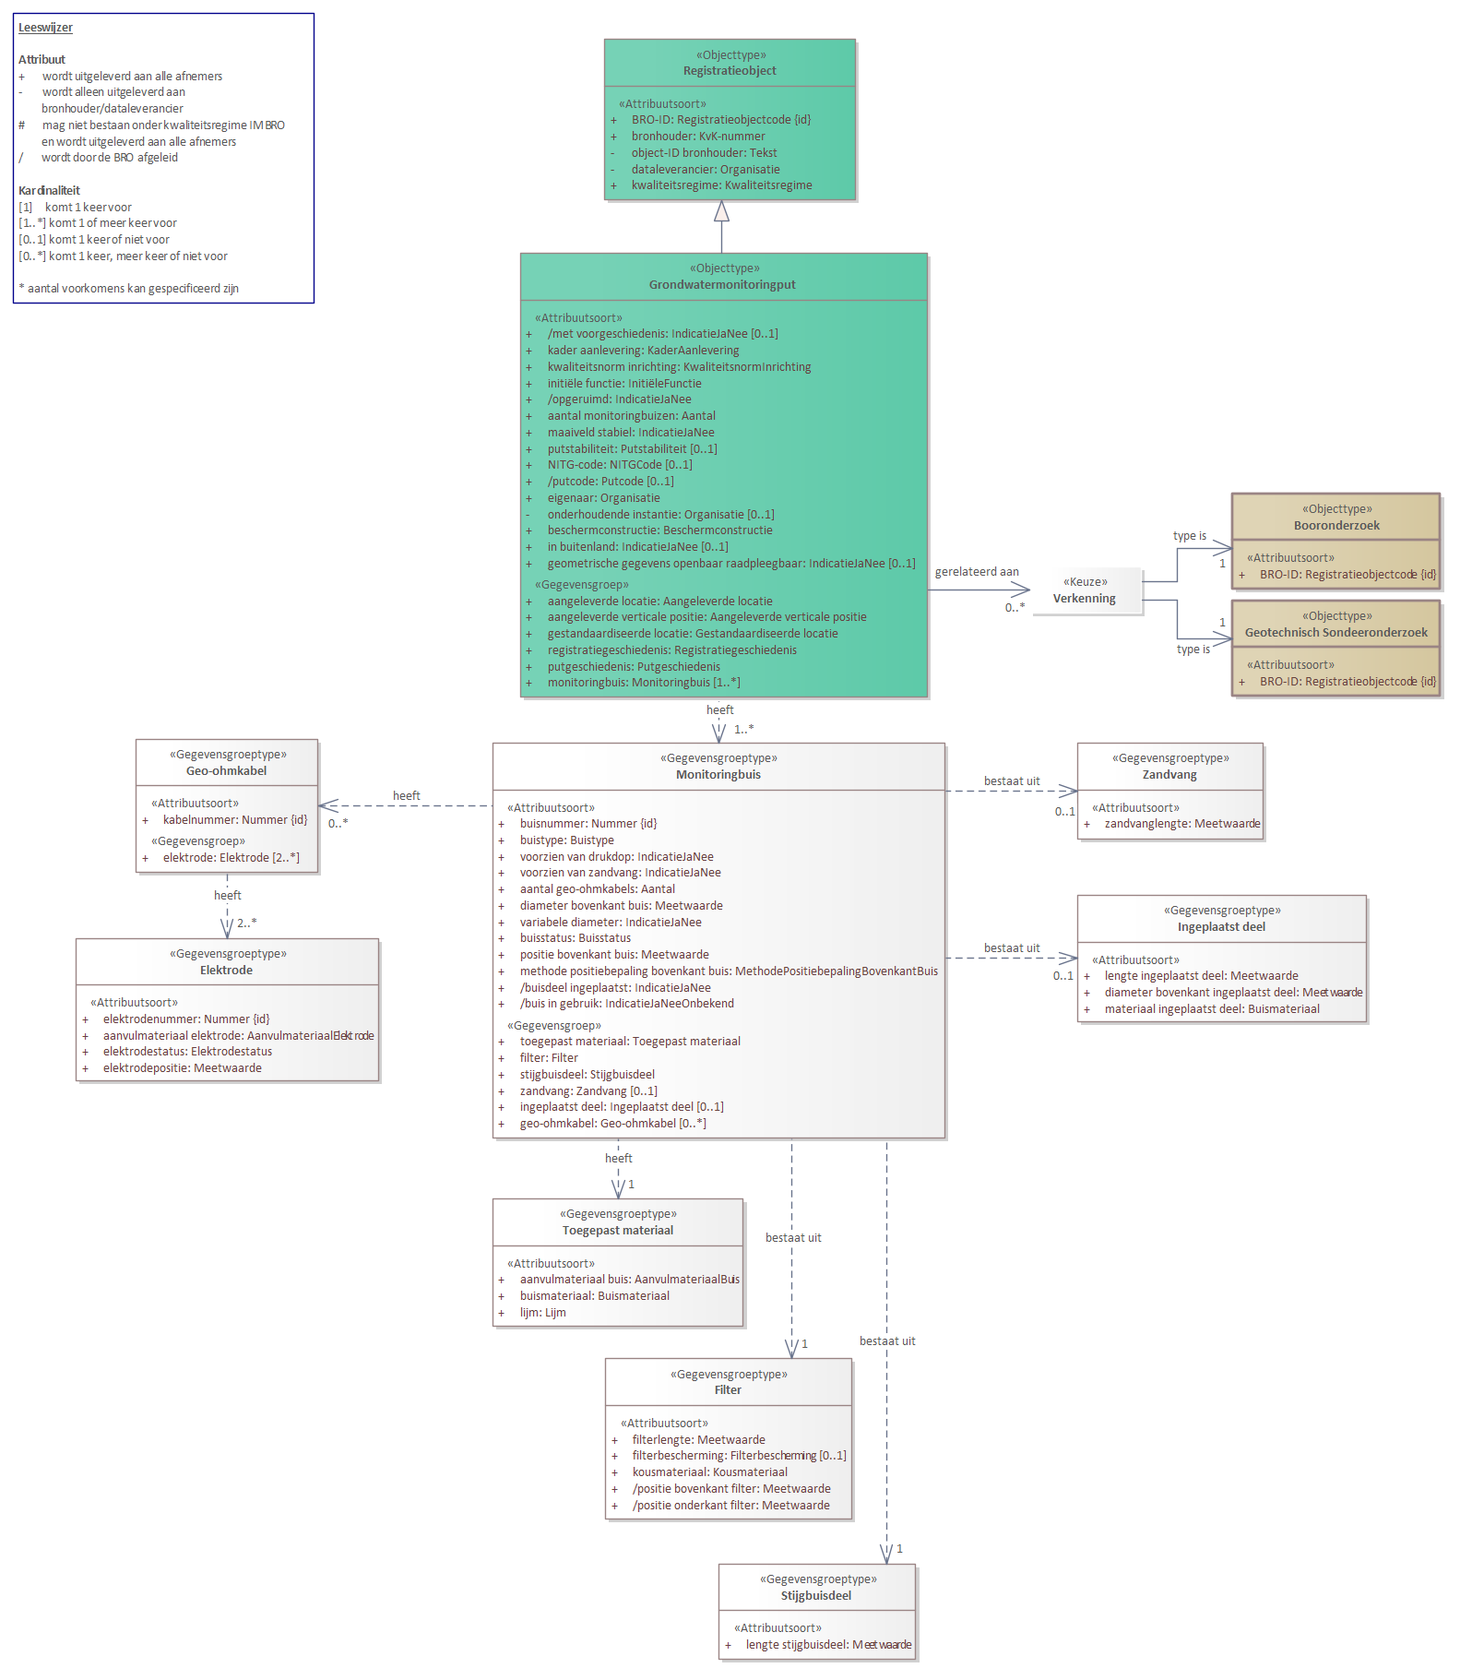
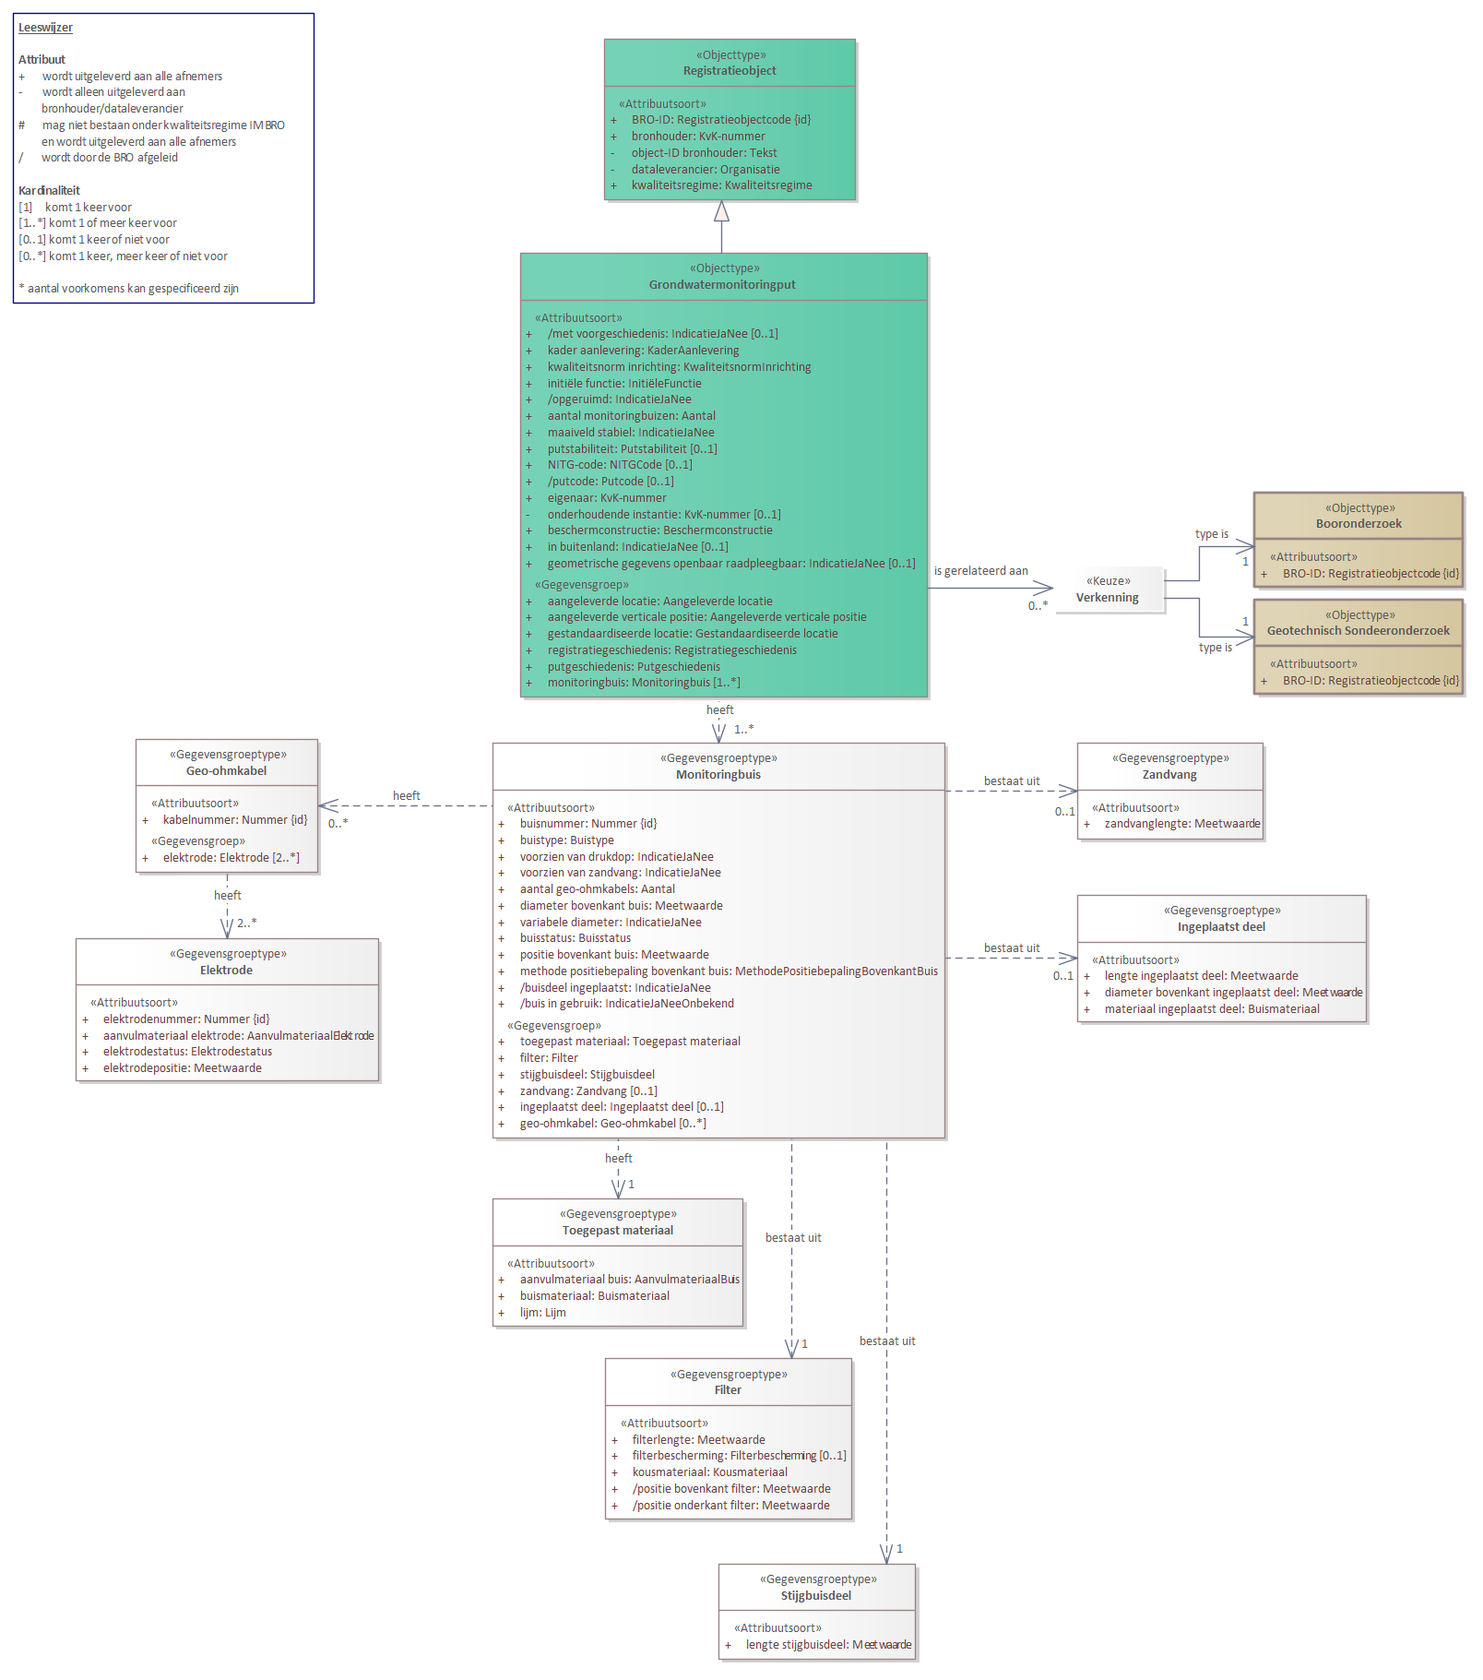
Conceptualmodel-GMWconceptueelMIM-1.09-1-20231201-20240222-131540

diff --git a/data/GMW-cat.msword.html b/data/GMW-cat.msword.html
@@ -15,7 +15,7 @@
    <body>
       <p>Conceptual model/GMW conceptueel MIM/20231201</p>
       <p>Imvertor: Nightly-build.13</p>
-      <p>Model release: Conceptualmodel-GMWconceptueelMIM-1.09-1-20231201-20240222-124534</p>
+      <p>Model release: Conceptualmodel-GMWconceptueelMIM-1.09-1-20231201-20240222-131540</p>
       <hr>
       <section>
          <h1>Artikel 1 Definitie van registratieobject, entiteiten en attributen</h1>
@@ -63,7 +63,7 @@
          <section>
             <h2>Het domeinmodel</h2>
             <section>
-               <div class="imageinfo overview"><img src="Images/EAID_E820AF53_7FB7_42e8_95C4_297D746526CE.png" usemap="#imagemap-EAID_E820AF53_7FB7_42e8_95C4_297D746526CE" alt="Diagram &#xA;                        &#xA;                     "><map name="imagemap-EAID_E820AF53_7FB7_42e8_95C4_297D746526CE"><area shape="rect" alt="Registratieobject" coords="655,42,928,217" href="#global_class_Model_Registratieobject"><area shape="rect" alt="Geotechnisch Sondeeronderzoek" coords="1336,651,1562,755" href="#global_class_Model_GeotechnischSondeeronderzoek"><area shape="rect" alt="Verkenning" coords="1116,614,1238,665" href="#global_class_Model_Verkenning"><area shape="rect" alt="Booronderzoek" coords="1336,535,1562,639" href="#global_class_Model_Booronderzoek"><area shape="rect" alt="Monitoringbuis" coords="534,805,1025,1234" href="#global_class_Model_Monitoringbuis"><area shape="rect" alt="Toegepast materiaal" coords="534,1299,806,1438" href="#global_class_Model_Toegepastmateriaal"><area shape="rect" alt="Ingeplaatst deel" coords="1168,970,1482,1108" href="#global_class_Model_Ingeplaatstdeel"><area shape="rect" alt="Zandvang" coords="1168,805,1370,910" href="#global_class_Model_Zandvang"><area shape="rect" alt="Grondwatermonitoringput" coords="564,274,1006,756" href="#global_class_Model_Grondwatermonitoringput"><area shape="rect" alt="Geo-ohmkabel" coords="147,801,345,946" href="#global_class_Model_Geoohmkabel"><area shape="rect" alt="Filter" coords="656,1472,924,1647" href="#global_class_Model_Filter"><area shape="rect" alt="Elektrode" coords="82,1017,411,1172" href="#global_class_Model_Elektrode"><area shape="rect" alt="Stijgbuisdeel" coords="779,1695,993,1799" href="#global_class_Model_Stijgbuisdeel"></map><p><b>Grondwatermonitorput (GMW)</b></p>
+               <div class="imageinfo overview"><img src="Images/EAID_E820AF53_7FB7_42e8_95C4_297D746526CE.png" usemap="#imagemap-EAID_E820AF53_7FB7_42e8_95C4_297D746526CE" alt="Diagram &#xA;                        &#xA;                     "><map name="imagemap-EAID_E820AF53_7FB7_42e8_95C4_297D746526CE"><area shape="rect" alt="Registratieobject" coords="655,42,928,217" href="#global_class_Model_Registratieobject"><area shape="rect" alt="Geotechnisch Sondeeronderzoek" coords="1360,650,1587,753" href="#global_class_Model_GeotechnischSondeeronderzoek"><area shape="rect" alt="Verkenning" coords="1141,613,1262,663" href="#global_class_Model_Verkenning"><area shape="rect" alt="Booronderzoek" coords="1360,534,1587,637" href="#global_class_Model_Booronderzoek"><area shape="rect" alt="Monitoringbuis" coords="534,805,1025,1234" href="#global_class_Model_Monitoringbuis"><area shape="rect" alt="Toegepast materiaal" coords="534,1299,806,1438" href="#global_class_Model_Toegepastmateriaal"><area shape="rect" alt="Ingeplaatst deel" coords="1168,970,1482,1108" href="#global_class_Model_Ingeplaatstdeel"><area shape="rect" alt="Zandvang" coords="1168,805,1370,910" href="#global_class_Model_Zandvang"><area shape="rect" alt="Grondwatermonitoringput" coords="564,274,1006,756" href="#global_class_Model_Grondwatermonitoringput"><area shape="rect" alt="Geo-ohmkabel" coords="147,801,345,946" href="#global_class_Model_Geoohmkabel"><area shape="rect" alt="Filter" coords="656,1472,924,1647" href="#global_class_Model_Filter"><area shape="rect" alt="Elektrode" coords="82,1017,411,1172" href="#global_class_Model_Elektrode"><area shape="rect" alt="Stijgbuisdeel" coords="779,1695,993,1799" href="#global_class_Model_Stijgbuisdeel"></map><p><b>Grondwatermonitorput (GMW)</b></p>
                </div>
             </section>
          </section>
@@ -1053,8 +1053,7 @@
                               <td>
                                  
                                  <p>De identificatie die de organisatie die eigenaar is van de grondwatermonitoringput,
-                                    als onderneming in het Handelsregister heeft, of het equivalent daarvan in een handelsregister
-                                    van een andere lidstaat van de Europese Unie dan Nederland.</p>
+                                    als onderneming in het Handelsregister heeft.</p>
                                  </td>
                            </tr>
                            <tr>
@@ -1071,7 +1070,17 @@
                            </tr>
                            <tr>
                               <th>&nbsp;&nbsp;Naam</th>
-                              <td>Organisatie</td>
+                              <td>
+                                 KvK-nummer
+                                 </td>
+                           </tr>
+                           <tr>
+                              <th>&nbsp;&nbsp;Type</th>
+                              <td>Code</td>
+                           </tr>
+                           <tr>
+                              <th>&nbsp;&nbsp;Opbouw</th>
+                              <td></td>
                            </tr>
                            <tr>
                               <th>Regels</th>
@@ -1128,8 +1137,7 @@
                               <td>
                                  
                                  <p>De identificatie die de organisatie die het onderhoud aan de grondwatermonitoringput
-                                    uitvoert, als onderneming in het Handelsregister heeft, of het equivalent daarvan
-                                    in een handelsregister van een andere lidstaat van de Europese Unie dan Nederland.</p>
+                                    uitvoert, als onderneming in het Handelsregister heeft.</p>
                                  </td>
                            </tr>
                            <tr>
@@ -1146,7 +1154,17 @@
                            </tr>
                            <tr>
                               <th>&nbsp;&nbsp;Naam</th>
-                              <td>Organisatie</td>
+                              <td>
+                                 KvK-nummer
+                                 </td>
+                           </tr>
+                           <tr>
+                              <th>&nbsp;&nbsp;Type</th>
+                              <td>Code</td>
+                           </tr>
+                           <tr>
+                              <th>&nbsp;&nbsp;Opbouw</th>
+                              <td></td>
                            </tr>
                            <tr>
                               <th>Regels</th>
@@ -1618,7 +1636,7 @@
                            </tr>
                            <tr>
                               <th>Relatiesoort naam</th>
-                              <td>gerelateerd aan</td>
+                              <td>is gerelateerd aan</td>
                            </tr>
                            <tr>
                               <th>Relatierol naam</th>
@@ -5676,7 +5694,7 @@
                            <th>Definitie</th>
                            <td>
                               
-                              <p>Het kenmerk van het booronderzoek dat is gerelateerd aan de inrichting van de grondwatermonitoringput.</p>
+                              <p>Het booronderzoek dat is gerelateerd aan de inrichting van de grondwatermonitoringput.</p>
                               </td>
                         </tr>
                      </tbody>
@@ -5697,7 +5715,7 @@
                               <td>
                                  
                                  <p>De identificatie van een booronderzoek van het registratiedomein bodem- en grondonderzoek
-                                    van de basisregistratie ondergrond.</p>
+                                    van de registratie ondergrond.</p>
                                  </td>
                            </tr>
                            <tr>
@@ -5728,7 +5746,7 @@
                               <th>Regels</th>
                               <td>
                                  
-                                 <p>Het <em>BRO-ID</em> moet gerelateerd zijn aan een bestaand booronderzoek in de basisregistratie ondergrond.</p>
+                                 <p>Het <em>BRO-ID</em> moet gerelateerd zijn aan een bestaand booronderzoek in de registratie ondergrond.</p>
                                  </td>
                            </tr>
                            <tr>
@@ -5758,8 +5776,7 @@
                            <th>Definitie</th>
                            <td>
                               
-                              <p>Het kenmerk van het geotechnisch sondeeronderzoek dat is gerelateerd aan de inrichting
-                                 van de grondwatermonitoringput.</p>
+                              <p>Het geotechnisch sondeeronderzoek dat is gerelateerd aan de inrichting van de grondwatermonitoringput.</p>
                               </td>
                         </tr>
                      </tbody>
@@ -5779,7 +5796,7 @@
                               <th>Definitie</th>
                               <td>
                                  
-                                 <p>De identificatie van een geotechnisch sondeeronderzoek in de basisregistratie ondergrond.</p>
+                                 <p>De identificatie van een geotechnisch sondeeronderzoek in de registratie ondergrond.</p>
                                  </td>
                            </tr>
                            <tr>
@@ -5810,7 +5827,7 @@
                               <th>Regels</th>
                               <td>
                                  
-                                 <p>Het <em>BRO-ID</em> moet gerelateerd zijn aan een bestaand geotechnisch sondeeronderzoek in de basisregistratie
+                                 <p>Het <em>BRO-ID</em> moet gerelateerd zijn aan een bestaand geotechnisch sondeeronderzoek in de registratie
                                     ondergrond.</p>
                                  </td>
                            </tr>

diff --git a/data/GMW-cat.respec.html b/data/GMW-cat.respec.html
@@ -41,7 +41,7 @@
       </section>
    <section>
       <h2>Het domeinmodel   </h2>
-      <div class="imageinfo overview"><img src="data/Images/EAID_E820AF53_7FB7_42e8_95C4_297D746526CE.png" usemap="#imagemap-EAID_E820AF53_7FB7_42e8_95C4_297D746526CE" alt="Diagram &#xA;                        &#xA;                     "><map name="imagemap-EAID_E820AF53_7FB7_42e8_95C4_297D746526CE"><area shape="rect" alt="Registratieobject" coords="655,42,928,217" href="#global_class_Model_Registratieobject"><area shape="rect" alt="Geotechnisch Sondeeronderzoek" coords="1336,651,1562,755" href="#global_class_Model_GeotechnischSondeeronderzoek"><area shape="rect" alt="Verkenning" coords="1116,614,1238,665" href="#global_class_Model_Verkenning"><area shape="rect" alt="Booronderzoek" coords="1336,535,1562,639" href="#global_class_Model_Booronderzoek"><area shape="rect" alt="Monitoringbuis" coords="534,805,1025,1234" href="#global_class_Model_Monitoringbuis"><area shape="rect" alt="Toegepast materiaal" coords="534,1299,806,1438" href="#global_class_Model_Toegepastmateriaal"><area shape="rect" alt="Ingeplaatst deel" coords="1168,970,1482,1108" href="#global_class_Model_Ingeplaatstdeel"><area shape="rect" alt="Zandvang" coords="1168,805,1370,910" href="#global_class_Model_Zandvang"><area shape="rect" alt="Grondwatermonitoringput" coords="564,274,1006,756" href="#global_class_Model_Grondwatermonitoringput"><area shape="rect" alt="Geo-ohmkabel" coords="147,801,345,946" href="#global_class_Model_Geoohmkabel"><area shape="rect" alt="Filter" coords="656,1472,924,1647" href="#global_class_Model_Filter"><area shape="rect" alt="Elektrode" coords="82,1017,411,1172" href="#global_class_Model_Elektrode"><area shape="rect" alt="Stijgbuisdeel" coords="779,1695,993,1799" href="#global_class_Model_Stijgbuisdeel"></map><p><b>Grondwatermonitorput (GMW)</b></p>
+      <div class="imageinfo overview"><img src="data/Images/EAID_E820AF53_7FB7_42e8_95C4_297D746526CE.png" usemap="#imagemap-EAID_E820AF53_7FB7_42e8_95C4_297D746526CE" alt="Diagram &#xA;                        &#xA;                     "><map name="imagemap-EAID_E820AF53_7FB7_42e8_95C4_297D746526CE"><area shape="rect" alt="Registratieobject" coords="655,42,928,217" href="#global_class_Model_Registratieobject"><area shape="rect" alt="Geotechnisch Sondeeronderzoek" coords="1360,650,1587,753" href="#global_class_Model_GeotechnischSondeeronderzoek"><area shape="rect" alt="Verkenning" coords="1141,613,1262,663" href="#global_class_Model_Verkenning"><area shape="rect" alt="Booronderzoek" coords="1360,534,1587,637" href="#global_class_Model_Booronderzoek"><area shape="rect" alt="Monitoringbuis" coords="534,805,1025,1234" href="#global_class_Model_Monitoringbuis"><area shape="rect" alt="Toegepast materiaal" coords="534,1299,806,1438" href="#global_class_Model_Toegepastmateriaal"><area shape="rect" alt="Ingeplaatst deel" coords="1168,970,1482,1108" href="#global_class_Model_Ingeplaatstdeel"><area shape="rect" alt="Zandvang" coords="1168,805,1370,910" href="#global_class_Model_Zandvang"><area shape="rect" alt="Grondwatermonitoringput" coords="564,274,1006,756" href="#global_class_Model_Grondwatermonitoringput"><area shape="rect" alt="Geo-ohmkabel" coords="147,801,345,946" href="#global_class_Model_Geoohmkabel"><area shape="rect" alt="Filter" coords="656,1472,924,1647" href="#global_class_Model_Filter"><area shape="rect" alt="Elektrode" coords="82,1017,411,1172" href="#global_class_Model_Elektrode"><area shape="rect" alt="Stijgbuisdeel" coords="779,1695,993,1799" href="#global_class_Model_Stijgbuisdeel"></map><p><b>Grondwatermonitorput (GMW)</b></p>
       </div>
    </section>
    <section>
@@ -1029,8 +1029,7 @@
                      <td>
                         
                         <p>De identificatie die de organisatie die eigenaar is van de grondwatermonitoringput,
-                           als onderneming in het Handelsregister heeft, of het equivalent daarvan in een handelsregister
-                           van een andere lidstaat van de Europese Unie dan Nederland.</p>
+                           als onderneming in het Handelsregister heeft.</p>
                         </td>
                   </tr>
                   <tr>
@@ -1047,7 +1046,17 @@
                   </tr>
                   <tr>
                      <th>&nbsp;&nbsp;Naam</th>
-                     <td>Organisatie</td>
+                     <td>
+                        KvK-nummer
+                        </td>
+                  </tr>
+                  <tr>
+                     <th>&nbsp;&nbsp;Type</th>
+                     <td>Code</td>
+                  </tr>
+                  <tr>
+                     <th>&nbsp;&nbsp;Opbouw</th>
+                     <td></td>
                   </tr>
                   <tr>
                      <th>Regels</th>
@@ -1104,8 +1113,7 @@
                      <td>
                         
                         <p>De identificatie die de organisatie die het onderhoud aan de grondwatermonitoringput
-                           uitvoert, als onderneming in het Handelsregister heeft, of het equivalent daarvan
-                           in een handelsregister van een andere lidstaat van de Europese Unie dan Nederland.</p>
+                           uitvoert, als onderneming in het Handelsregister heeft.</p>
                         </td>
                   </tr>
                   <tr>
@@ -1122,7 +1130,17 @@
                   </tr>
                   <tr>
                      <th>&nbsp;&nbsp;Naam</th>
-                     <td>Organisatie</td>
+                     <td>
+                        KvK-nummer
+                        </td>
+                  </tr>
+                  <tr>
+                     <th>&nbsp;&nbsp;Type</th>
+                     <td>Code</td>
+                  </tr>
+                  <tr>
+                     <th>&nbsp;&nbsp;Opbouw</th>
+                     <td></td>
                   </tr>
                   <tr>
                      <th>Regels</th>
@@ -1594,7 +1612,7 @@
                   </tr>
                   <tr>
                      <th>Relatiesoort naam</th>
-                     <td>gerelateerd aan</td>
+                     <td>is gerelateerd aan</td>
                   </tr>
                   <tr>
                      <th>Relatierol naam</th>
@@ -5652,7 +5670,7 @@
                   <th>Definitie</th>
                   <td>
                      
-                     <p>Het kenmerk van het booronderzoek dat is gerelateerd aan de inrichting van de grondwatermonitoringput.</p>
+                     <p>Het booronderzoek dat is gerelateerd aan de inrichting van de grondwatermonitoringput.</p>
                      </td>
                </tr>
             </tbody>
@@ -5673,7 +5691,7 @@
                      <td>
                         
                         <p>De identificatie van een booronderzoek van het registratiedomein bodem- en grondonderzoek
-                           van de basisregistratie ondergrond.</p>
+                           van de registratie ondergrond.</p>
                         </td>
                   </tr>
                   <tr>
@@ -5704,7 +5722,7 @@
                      <th>Regels</th>
                      <td>
                         
-                        <p>Het <em>BRO-ID</em> moet gerelateerd zijn aan een bestaand booronderzoek in de basisregistratie ondergrond.</p>
+                        <p>Het <em>BRO-ID</em> moet gerelateerd zijn aan een bestaand booronderzoek in de registratie ondergrond.</p>
                         </td>
                   </tr>
                   <tr>
@@ -5734,8 +5752,7 @@
                   <th>Definitie</th>
                   <td>
                      
-                     <p>Het kenmerk van het geotechnisch sondeeronderzoek dat is gerelateerd aan de inrichting
-                        van de grondwatermonitoringput.</p>
+                     <p>Het geotechnisch sondeeronderzoek dat is gerelateerd aan de inrichting van de grondwatermonitoringput.</p>
                      </td>
                </tr>
             </tbody>
@@ -5755,7 +5772,7 @@
                      <th>Definitie</th>
                      <td>
                         
-                        <p>De identificatie van een geotechnisch sondeeronderzoek in de basisregistratie ondergrond.</p>
+                        <p>De identificatie van een geotechnisch sondeeronderzoek in de registratie ondergrond.</p>
                         </td>
                   </tr>
                   <tr>
@@ -5786,7 +5803,7 @@
                      <th>Regels</th>
                      <td>
                         
-                        <p>Het <em>BRO-ID</em> moet gerelateerd zijn aan een bestaand geotechnisch sondeeronderzoek in de basisregistratie
+                        <p>Het <em>BRO-ID</em> moet gerelateerd zijn aan een bestaand geotechnisch sondeeronderzoek in de registratie
                            ondergrond.</p>
                         </td>
                   </tr>
